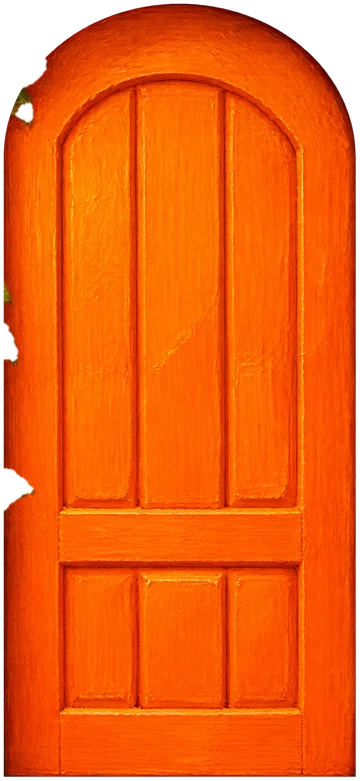
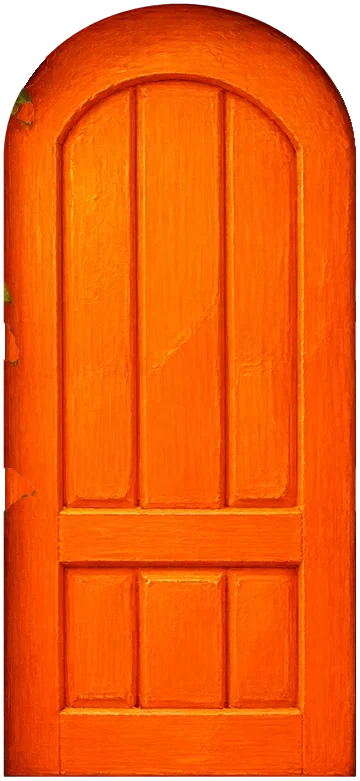
Doors back to one painted scene with no seam; Weekend activities as old tickets; round maker portraits
- Doors: original painted arches with flowers; door edges repaired, door colour behind closed doors, white light only when open
- The Weekend: activities are vintage tickets (notched corners, inner frame, perforation, gingham stub in the joy colour)
- Makers: circle portraits without the square frame

diff --git a/public/index.html b/public/index.html
@@ -144,13 +144,13 @@
     <div class="wrap">
       <div class="center"><p class="eyebrow">Two days, two doors</p><h2 id="days-h">Fill up. Then give it away.</h2></div>
     </div>
-    <div class="facade2 facade2--wonder" style="aspect-ratio:2698 / 1536">
-      <span class="door-burst door-burst--sat" style="left:13.677%;top:10.352%;width:22.313%;height:73.893%" aria-hidden="true"></span>
-      <span class="door-burst door-burst--sun" style="left:67.235%;top:10.286%;width:22.313%;height:73.958%" aria-hidden="true"></span>
-      <img class="facade2__base" src="assets/img/doors/base.webp?v=6" alt="" width="2698" height="1536" decoding="async">
-      <a class="door4 door4--sat door4--hinge-left" href="/weekend#saturday" style="left:13.677%;top:10.352%;width:22.313%;height:73.893%" aria-label="Saturday, January 16: Find the joy within. Open the door to see Saturday.">
-        <span class="door4__way" style="--way:url(/assets/img/doors/sat-way.webp?v=3)" aria-hidden="true"><span class="door4__light"></span><span class="door4__sparks"></span></span>
-        <span class="door4__leaf" style="--leaf:url(/assets/img/doors/sat-leaf.webp?v=2)">
+    <div class="facade2 facade2--wonder" style="aspect-ratio:2000 / 1242">
+      <span class="door-burst door-burst--sat" style="left:14.521%;top:10.265%;width:21.514%;height:75.099%" aria-hidden="true"></span>
+      <span class="door-burst door-burst--sun" style="left:69.107%;top:10.596%;width:21.514%;height:74.636%" aria-hidden="true"></span>
+      <img class="facade2__base" src="assets/img/doors/base.webp?v=7" alt="" width="2000" height="1242" decoding="async">
+      <a class="door4 door4--sat door4--hinge-left" href="/weekend#saturday" style="left:14.521%;top:10.265%;width:21.514%;height:75.099%" aria-label="Saturday, January 16: Find the joy within. Open the door to see Saturday.">
+        <span class="door4__way" style="--way:url(/assets/img/doors/sat-way.webp?v=4)" aria-hidden="true"><span class="door4__light"></span><span class="door4__sparks"></span></span>
+        <span class="door4__leaf" style="--leaf:url(/assets/img/doors/sat-leaf.webp?v=3)">
           <span class="door4__content">
             <span class="door4__sign"><span>SAT. 01.16</span></span>
             <span class="door4__title">Find the joy within</span>
@@ -159,9 +159,9 @@
           <span class="door4__knob" aria-hidden="true"><img src="assets/img/doors/knob.webp" alt="" draggable="false"></span>
         </span>
       </a>
-      <a class="door4 door4--sun door4--hinge-right" href="/weekend#sunday" style="left:67.235%;top:10.286%;width:22.313%;height:73.958%" aria-label="Sunday, January 17: Give it away. Open the door to see Sunday.">
-        <span class="door4__way" style="--way:url(/assets/img/doors/sun-way.webp?v=3)" aria-hidden="true"><span class="door4__light"></span><span class="door4__sparks"></span></span>
-        <span class="door4__leaf" style="--leaf:url(/assets/img/doors/sun-leaf.webp?v=2)">
+      <a class="door4 door4--sun door4--hinge-right" href="/weekend#sunday" style="left:69.107%;top:10.596%;width:21.514%;height:74.636%" aria-label="Sunday, January 17: Give it away. Open the door to see Sunday.">
+        <span class="door4__way" style="--way:url(/assets/img/doors/sun-way.webp?v=4)" aria-hidden="true"><span class="door4__light"></span><span class="door4__sparks"></span></span>
+        <span class="door4__leaf" style="--leaf:url(/assets/img/doors/sun-leaf.webp?v=3)">
           <span class="door4__content">
             <span class="door4__sign"><span>SUN. 01.17</span></span>
             <span class="door4__title">Give it away</span>
@@ -170,37 +170,6 @@
           <span class="door4__knob" aria-hidden="true"><img src="assets/img/doors/knob.webp" alt="" draggable="false"></span>
         </span>
       </a>
-      <div class="facade2__plants" aria-hidden="true">
-        <span class="plant plant--leaves" style="left:5.3%;top:1.693%;width:14.01%;--amp:1.28deg;--dur:4.25s;--delay:-0.00s"><img src="assets/img/doors/plants/sat-leaves-1.webp?v=2" alt="" draggable="false" decoding="async"></span>
-        <span class="plant plant--leaves" style="left:4.151%;top:37.435%;width:10.452%;--amp:1.49deg;--dur:4.92s;--delay:-0.83s"><img src="assets/img/doors/plants/sat-leaves-2.webp?v=2" alt="" draggable="false" decoding="async"></span>
-        <span class="plant plant--leaves" style="left:3.892%;top:54.753%;width:2.409%;--amp:1.71deg;--dur:5.58s;--delay:-1.66s"><img src="assets/img/doors/plants/sat-leaves-3.webp?v=2" alt="" draggable="false" decoding="async"></span>
-        <span class="plant plant--leaves" style="left:12.157%;top:55.99%;width:2.52%;--amp:1.92deg;--dur:4.75s;--delay:-2.49s"><img src="assets/img/doors/plants/sat-leaves-4.webp?v=2" alt="" draggable="false" decoding="async"></span>
-        <span class="plant plant--leaves" style="left:5.967%;top:62.305%;width:6.597%;--amp:1.39deg;--dur:5.42s;--delay:-3.32s"><img src="assets/img/doors/plants/sat-leaves-5.webp?v=2" alt="" draggable="false" decoding="async"></span>
-        <span class="plant plant--leaves" style="left:36.546%;top:63.151%;width:9.044%;--amp:1.60deg;--dur:4.58s;--delay:-4.15s"><img src="assets/img/doors/plants/sat-leaves-6.webp?v=2" alt="" draggable="false" decoding="async"></span>
-        <span class="plant plant--leaves" style="left:0.852%;top:73.112%;width:12.639%;--amp:1.81deg;--dur:5.25s;--delay:-4.98s"><img src="assets/img/doors/plants/sat-leaves-7.webp?v=2" alt="" draggable="false" decoding="async"></span>
-        <span class="plant plant--flower" style="left:9.229%;top:5.664%;width:2.743%;--amp:4.80deg;--dur:3.27s;--delay:-0.81s"><img src="assets/img/doors/plants/sat-flower-1.webp?v=2" alt="" draggable="false" decoding="async"></span>
-        <span class="plant plant--flower" style="left:8.488%;top:7.552%;width:8.191%;--amp:5.60deg;--dur:3.76s;--delay:-1.64s"><img src="assets/img/doors/plants/sat-flower-2.webp?v=2" alt="" draggable="false" decoding="async"></span>
-        <span class="plant plant--flower" style="left:8.488%;top:34.896%;width:4.781%;--amp:6.40deg;--dur:3.15s;--delay:-2.47s"><img src="assets/img/doors/plants/sat-flower-3.webp?v=2" alt="" draggable="false" decoding="async"></span>
-        <span class="plant plant--flower" style="left:5.523%;top:51.042%;width:6.264%;--amp:7.20deg;--dur:3.64s;--delay:-3.30s"><img src="assets/img/doors/plants/sat-flower-4.webp?v=2" alt="" draggable="false" decoding="async"></span>
-        <span class="plant plant--flower" style="left:38.362%;top:77.344%;width:3.855%;--amp:5.20deg;--dur:4.13s;--delay:-4.13s"><img src="assets/img/doors/plants/sat-flower-5.webp?v=2" alt="" draggable="false" decoding="async"></span>
-        <span class="plant plant--mushroom" style="left:7.376%;top:77.474%;width:5.597%;--amp:2.00deg;--dur:4.18s;--delay:-4.96s"><img src="assets/img/doors/plants/sat-mushroom-1.webp?v=2" alt="" draggable="false" decoding="async"></span>
-        <span class="plant plant--leaves" style="left:66.271%;top:1.432%;width:7.746%;--amp:1.81deg;--dur:5.42s;--delay:-0.79s"><img src="assets/img/doors/plants/sun-leaves-1.webp?v=2" alt="" draggable="false" decoding="async"></span>
-        <span class="plant plant--leaves" style="left:62.861%;top:7.878%;width:2.928%;--amp:1.28deg;--dur:4.58s;--delay:-1.62s"><img src="assets/img/doors/plants/sun-leaves-2.webp?v=2" alt="" draggable="false" decoding="async"></span>
-        <span class="plant plant--leaves" style="left:60.007%;top:12.174%;width:5.041%;--amp:1.49deg;--dur:5.25s;--delay:-2.45s"><img src="assets/img/doors/plants/sun-leaves-3.webp?v=2" alt="" draggable="false" decoding="async"></span>
-        <span class="plant plant--leaves" style="left:63.38%;top:21.029%;width:1.26%;--amp:1.71deg;--dur:4.42s;--delay:-3.28s"><img src="assets/img/doors/plants/sun-leaves-4.webp?v=2" alt="" draggable="false" decoding="async"></span>
-        <span class="plant plant--leaves" style="left:64.27%;top:31.966%;width:3.41%;--amp:1.92deg;--dur:5.08s;--delay:-4.11s"><img src="assets/img/doors/plants/sun-leaves-5.webp?v=2" alt="" draggable="false" decoding="async"></span>
-        <span class="plant plant--leaves" style="left:58.821%;top:38.281%;width:9.377%;--amp:1.39deg;--dur:4.25s;--delay:-4.94s"><img src="assets/img/doors/plants/sun-leaves-6.webp?v=2" alt="" draggable="false" decoding="async"></span>
-        <span class="plant plant--leaves" style="left:57.487%;top:52.279%;width:3.744%;--amp:1.60deg;--dur:4.92s;--delay:-0.77s"><img src="assets/img/doors/plants/sun-leaves-7.webp?v=2" alt="" draggable="false" decoding="async"></span>
-        <span class="plant plant--leaves" style="left:65.678%;top:55.99%;width:2.595%;--amp:1.81deg;--dur:5.58s;--delay:-1.60s"><img src="assets/img/doors/plants/sun-leaves-8.webp?v=2" alt="" draggable="false" decoding="async"></span>
-        <span class="plant plant--leaves" style="left:59.6%;top:62.305%;width:6.635%;--amp:1.28deg;--dur:4.75s;--delay:-2.43s"><img src="assets/img/doors/plants/sun-leaves-9.webp?v=2" alt="" draggable="false" decoding="async"></span>
-        <span class="plant plant--leaves" style="left:90.03%;top:63.151%;width:9.155%;--amp:1.49deg;--dur:5.42s;--delay:-3.26s"><img src="assets/img/doors/plants/sun-leaves-10.webp?v=2" alt="" draggable="false" decoding="async"></span>
-        <span class="plant plant--leaves" style="left:54.522%;top:72.982%;width:12.713%;--amp:1.71deg;--dur:4.58s;--delay:-4.09s"><img src="assets/img/doors/plants/sun-leaves-11.webp?v=2" alt="" draggable="false" decoding="async"></span>
-        <span class="plant plant--flower" style="left:63.306%;top:7.292%;width:8.488%;--amp:7.20deg;--dur:3.89s;--delay:-4.92s"><img src="assets/img/doors/plants/sun-flower-1.webp?v=2" alt="" draggable="false" decoding="async"></span>
-        <span class="plant plant--flower" style="left:61.898%;top:37.044%;width:5.004%;--amp:5.20deg;--dur:3.27s;--delay:-0.75s"><img src="assets/img/doors/plants/sun-flower-2.webp?v=2" alt="" draggable="false" decoding="async"></span>
-        <span class="plant plant--flower" style="left:59.34%;top:51.042%;width:6.338%;--amp:6.00deg;--dur:3.76s;--delay:-1.58s"><img src="assets/img/doors/plants/sun-flower-3.webp?v=2" alt="" draggable="false" decoding="async"></span>
-        <span class="plant plant--flower" style="left:92.179%;top:77.409%;width:3.892%;--amp:6.80deg;--dur:3.15s;--delay:-2.41s"><img src="assets/img/doors/plants/sun-flower-4.webp?v=2" alt="" draggable="false" decoding="async"></span>
-        <span class="plant plant--mushroom" style="left:61.082%;top:77.539%;width:5.597%;--amp:1.60deg;--dur:4.33s;--delay:-3.24s"><img src="assets/img/doors/plants/sun-mushroom-1.webp?v=2" alt="" draggable="false" decoding="async"></span>
-      </div>
     </div>
   </section>
 

diff --git a/public/assets/site.css b/public/assets/site.css
@@ -2235,3 +2235,61 @@ main details summary{ border: 0 !important; }
 main li img{ border: 0 !important; }
 .how li{ border: 1px solid var(--card-line) !important; box-shadow: var(--card-shadow) !important; background-color: var(--card-bg) !important; border-radius: 18px; }
 .file-drop img{ border: 0 !important; border-radius: 12px; box-shadow: 0 8px 18px -8px rgba(42,36,32,.3); }
+
+/* doors closed: no seam. Behind each closed door is its own painted colour, so any hairline gap around the
+   leaf reads as the door's edge; the white light only fills the doorway once the door opens. */
+.door4__way::before{ content: ""; position: absolute; inset: 0; z-index: 2; transition: opacity .35s ease .05s; }
+.door4--sat .door4__way::before{ background: radial-gradient(80% 60% at 50% 50%, #c33103, #a32100); }
+.door4--sun .door4__way::before{ background: radial-gradient(80% 60% at 50% 50%, #0257a0, #004589); }
+.door4:focus-visible .door4__way::before, .door4.is-open .door4__way::before{ opacity: 0; transition-delay: 0s; }
+@media (hover: hover){ .door4:hover .door4__way::before{ opacity: 0; transition-delay: 0s; } }
+
+/* =====================================================================
+   THE WEEKEND: each activity is an old printed ticket. Notched corners,
+   a thin inner frame, a perforated tear line, a gingham stub in the ride's
+   joy colour and a warm aged-paper body tinted with the same colour.
+   ===================================================================== */
+.sched .ticket{ --tk-paper: #f8efdc; --tk-line: rgba(113,82,52,.55); --notch: 13px;
+  display: grid; grid-template-columns: 150px 1fr; gap: 0; background: none !important; border: 0 !important; box-shadow: none !important;
+  filter: drop-shadow(0 1px 1px rgba(42,36,32,.10)) drop-shadow(0 10px 16px rgba(42,36,32,.14));
+  transition: transform .25s cubic-bezier(.3,1.4,.5,1), filter .25s ease; }
+.sched .ticket:hover, .sched .ticket:focus-within{ transform: translateY(-3px) rotate(-.3deg); filter: drop-shadow(0 2px 2px rgba(42,36,32,.12)) drop-shadow(0 16px 22px rgba(42,36,32,.18)); }
+/* both halves get four inverted corners: the outer ones round the ticket, the inner ones make the notches at the tear line */
+.sched .ticket__stub, .sched .ticket__main{ position: relative; border: 0 !important; border-radius: 0 !important; box-shadow: none !important; transform: none !important;
+  -webkit-mask:
+    radial-gradient(circle at 0 0, transparent var(--notch), #000 calc(var(--notch) + .5px)) top left / 51% 51% no-repeat,
+    radial-gradient(circle at 100% 0, transparent var(--notch), #000 calc(var(--notch) + .5px)) top right / 51% 51% no-repeat,
+    radial-gradient(circle at 0 100%, transparent var(--notch), #000 calc(var(--notch) + .5px)) bottom left / 51% 51% no-repeat,
+    radial-gradient(circle at 100% 100%, transparent var(--notch), #000 calc(var(--notch) + .5px)) bottom right / 51% 51% no-repeat;
+          mask:
+    radial-gradient(circle at 0 0, transparent var(--notch), #000 calc(var(--notch) + .5px)) top left / 51% 51% no-repeat,
+    radial-gradient(circle at 100% 0, transparent var(--notch), #000 calc(var(--notch) + .5px)) top right / 51% 51% no-repeat,
+    radial-gradient(circle at 0 100%, transparent var(--notch), #000 calc(var(--notch) + .5px)) bottom left / 51% 51% no-repeat,
+    radial-gradient(circle at 100% 100%, transparent var(--notch), #000 calc(var(--notch) + .5px)) bottom right / 51% 51% no-repeat; }
+.sched .ticket__stub::before, .sched .ticket__stub::after{ display: none !important; }
+/* stub: soft gingham in the joy colour, a printed time on a cream label */
+.sched .ticket--left .ticket__stub{ order: -1; display: flex; flex-direction: column; align-items: center; justify-content: center; gap: 2px; padding: 22px 14px;
+  background:
+    repeating-linear-gradient(90deg, color-mix(in srgb, var(--stub) 34%, transparent) 0 12px, transparent 12px 24px),
+    repeating-linear-gradient(0deg, color-mix(in srgb, var(--stub) 34%, transparent) 0 12px, transparent 12px 24px),
+    color-mix(in srgb, var(--stub) 22%, var(--tk-paper)) !important; }
+.sched .ticket__stub > *{ position: relative; z-index: 1; }
+.sched .ticket--left .ticket__time{ display: inline-block; padding: 4px 10px; border-radius: 6px; background: var(--tk-paper); color: var(--c-ink);
+  font-family: var(--f-text); font-weight: 700; font-size: 1.05rem; box-shadow: 0 1px 0 rgba(113,82,52,.25); }
+.sched .ticket__stub > span:not(.ticket__time){ font-family: var(--f-text); font-size: .8rem; letter-spacing: .12em; text-transform: uppercase; color: rgba(42,36,32,.7); }
+/* body: aged cream with a whisper of the joy colour */
+.sched .ticket__main{ padding: 24px 28px 22px 30px !important;
+  background: radial-gradient(120% 140% at 85% 20%, color-mix(in srgb, var(--stub, #e9809c) 10%, var(--tk-paper)), var(--tk-paper) 70%) !important; }
+/* thin printed inner frame on both halves */
+.sched .ticket__stub::after, .sched .ticket__main::after{ content: ""; display: block !important; position: absolute; inset: 7px; pointer-events: none;
+  border: 1.5px solid var(--tk-line); border-radius: 10px; }
+/* the perforation */
+.sched .ticket__main::before{ content: ""; position: absolute; left: -1px; top: calc(var(--notch) + 4px); bottom: calc(var(--notch) + 4px);
+  border-left: 2px dashed rgba(113,82,52,.6); }
+@media (max-width: 700px){
+  .sched .ticket{ grid-template-columns: 1fr; }
+  .sched .ticket--left .ticket__stub{ flex-direction: row; padding: 16px 20px; }
+  .sched .ticket__main::before{ left: calc(var(--notch) + 4px); right: calc(var(--notch) + 4px); top: -1px; bottom: auto; border-left: 0; border-top: 2px dashed rgba(113,82,52,.6); }
+}
+/* makers: just the round portrait, no square behind it */
+.maker__photo{ border-radius: 50% !important; background: transparent !important; box-shadow: 0 10px 20px -10px rgba(42,36,32,.35) !important; }

diff --git a/public/assets/site.js b/public/assets/site.js
@@ -333,7 +333,7 @@
         var t = joyType(b.joy);
         var parts = String(b.time).split(" to ");
         var stub = parts.length > 1 ? '<span class="ticket__time">' + esc(parts[0]) + '</span><span>to</span><span class="ticket__time">' + esc(parts[1]) + '</span>' : '<span class="ticket__time">' + esc(b.time) + '</span>';
-        return '<li class="ticket ticket--left reveal">' +
+        return '<li class="ticket ticket--left reveal" style="--stub:' + esc(t.color) + '">' +
           '<div class="ticket__stub" style="--stub:' + esc(t.color) + '">' + stub + '</div>' +
           '<div class="ticket__main"><h3 class="ticket__title">' + esc(b.title) + '</h3><p class="ticket__desc">' + esc(b.desc) + '</p>' +
           '<div class="ticket__meta"><span class="pin">' + esc(b.where) + '</span>' + tagHTML(b.joy) + '</div>' +
